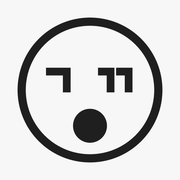
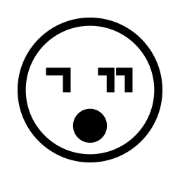
feat: SEO 메타데이터 강화 및 브랜딩 자산 통일 (#122)
* feat: SEO 메타데이터 및 브랜딩 카피 통일

- title/og/twitter 문구를 "가까워 - AI 유사도 기반 게임"으로 통일
- description을 "AI 임베딩 유사도 판별 기반 한국어 데일리 웹 게임"으로 확장
- canonical, keywords 메타 추가
- WebSite, Game+WebApplication JSON-LD 구조화 데이터 추가
- favicon.svg/96px/manifest 링크 선언 (파일은 후속 커밋에서 반영)
- sitemap.xml: xsi:schemaLocation 명시 + lastmod를 W3C ISO 8601 전환
- robots.txt: 검색/소셜 크롤러(Google/Naver/Bing/Twitter/Facebook/Kakao 등) 명시 허용
- README 제목/설명 통일 및 대표 이미지를 OG 이미지로 교체

* chore: 파비콘 세트 교체 및 PWA manifest 반영

realfavicongenerator 생성 파비콘 자산 세트로 교체:
- favicon.ico/svg/96px
- apple-touch-icon.png (180x180)
- web-app-manifest-192px/512px
- site.webmanifest theme_color를 브랜드 색(#FDE047)으로 정정
- og-image.png 1:1.91 비율로 최적화

* chore: GakkaweoIcon 실제 브랜딩 SVG 반영

Figma 디자인 기반 실제 브랜드 SVG로 교체.
currentColor 기반으로 Header/LoginButton 등 부모 요소의
text color에 따라 라이트/다크 모드 자동 대응.

Pull request: feat: SEO 메타데이터 강화 및 브랜딩 자산 통일
## 관련 이슈

Closes #121

## 변경 사항

### SEO 메타데이터 확장 (`feat: SEO 메타데이터 및 브랜딩 카피 통일`)
- `title` / `og:*` / `twitter:*` 문구를 **"가까워 - AI 유사도 기반 게임"**으로 통일 (기존 em dash `—` → ASCII `-`)
- `description`을 **"AI 임베딩 유사도 판별 기반 한국어 데일리 웹 게임. 매일 새로운 정답 문장을 의미 유사도로 맞춰보세요."**로 확장
- `<meta name="keywords">`, `<link rel="canonical">` 추가
- JSON-LD 구조화 데이터 2블록 추가: `WebSite`, `["Game", "WebApplication"]`
- `favicon.svg` / `favicon-96x96.png` / `site.webmanifest` 링크 선언 (파일은 후속 커밋에서 반영)
- `sitemap.xml`: `xsi:schemaLocation` 명시 + `<lastmod>`를 W3C ISO 8601 full form(KST 포함)으로 전환
- `robots.txt`: 검색/소셜 크롤러(Google/Naver/Bing/Yeti/Twitter/Facebook/Kakao/Discord/Slack/Telegram/LinkedIn) 명시 허용
- `README.md` 제목/설명 통일 및 대표 이미지를 OG 이미지로 교체

### 파비콘 세트 교체 (`chore: 파비콘 세트 교체 및 PWA manifest 반영`)
realfavicongenerator 생성 자산으로 일괄 교체:
- `favicon.ico` / `favicon.svg` / `favicon-96x96.png`
- `apple-touch-icon.png` (180×180)
- `web-app-manifest-192x192.png` / `web-app-manifest-512x512.png`
- `site.webmanifest` `theme_color`를 브랜드 색(`#FDE047`)으로 정정
- `og-image.png` 1:1.91 비율로 최적화

### GakkaweoIcon SVG 교체 (`chore: GakkaweoIcon 실제 브랜딩 SVG 반영`)
- Figma 디자인 기반 실제 브랜드 SVG로 교체
- `currentColor` 기반으로 Header/LoginButton 등 부모 요소의 text color에 따라 라이트/다크 모드 자동 대응

## 셀프 리뷰 체크리스트

- [x] 코드가 정상적으로 동작하는지 확인했다
- [x] 불필요한 코드나 주석을 제거했다
- [x] 변경 사항이 다른 기능에 영향을 주지 않는지 확인했다

diff --git a/frontend/index.html b/frontend/index.html
@@ -2,17 +2,31 @@
 <html lang="ko">
   <head>
     <meta charset="UTF-8" />
-    <link rel="icon" href="/favicon.ico" />
+    <link rel="icon" href="/favicon.ico" sizes="any" />
+    <link rel="icon" type="image/svg+xml" href="/favicon.svg" />
+    <link rel="icon" type="image/png" sizes="96x96" href="/favicon-96x96.png" />
     <link rel="apple-touch-icon" sizes="180x180" href="/apple-touch-icon.png" />
+    <link rel="manifest" href="/site.webmanifest" />
+    <link rel="canonical" href="https://gakkaweo.r4b2.xyz/" />
     <meta name="viewport" content="width=device-width, initial-scale=1.0" />
-    <meta name="description" content="매일 정답 문장을 맞추는 AI 유사도 기반 단어 게임" />
+    <meta
+      name="description"
+      content="AI 임베딩 유사도 판별 기반 한국어 데일리 웹 게임. 매일 새로운 정답 문장을 의미 유사도로 맞춰보세요."
+    />
+    <meta
+      name="keywords"
+      content="가까워, 가까워 게임, AI 유사도 게임, 한국어 단어 게임, 의미 유사도, 임베딩 게임, 데일리 게임, 일일 게임, semantle 한국어, 세멘틀, 꼬멘틀, 뉴멘틀, 끄투, sentence similarity game, korean word game"
+    />
     <meta name="theme-color" content="#FDE047" />
 
     <!-- Open Graph -->
     <meta property="og:type" content="website" />
-    <meta property="og:title" content="가까워 — AI 유사도 단어 게임" />
-    <meta property="og:description" content="매일 정답 문장을 맞추는 AI 유사도 기반 단어 게임" />
-    <meta property="og:url" content="https://gakkaweo.r4b2.xyz" />
+    <meta property="og:title" content="가까워 - AI 유사도 기반 게임" />
+    <meta
+      property="og:description"
+      content="AI 임베딩 유사도 판별 기반 한국어 데일리 웹 게임. 매일 새로운 정답 문장을 의미 유사도로 맞춰보세요."
+    />
+    <meta property="og:url" content="https://gakkaweo.r4b2.xyz/" />
     <meta property="og:image" content="https://gakkaweo.r4b2.xyz/og-image.png" />
     <meta property="og:image:width" content="1200" />
     <meta property="og:image:height" content="630" />
@@ -21,11 +35,51 @@
 
     <!-- Twitter Card -->
     <meta name="twitter:card" content="summary_large_image" />
-    <meta name="twitter:title" content="가까워 — AI 유사도 단어 게임" />
-    <meta name="twitter:description" content="매일 정답 문장을 맞추는 AI 유사도 기반 단어 게임" />
+    <meta name="twitter:title" content="가까워 - AI 유사도 기반 게임" />
+    <meta
+      name="twitter:description"
+      content="AI 임베딩 유사도 판별 기반 한국어 데일리 웹 게임. 매일 새로운 정답 문장을 의미 유사도로 맞춰보세요."
+    />
     <meta name="twitter:image" content="https://gakkaweo.r4b2.xyz/og-image.png" />
 
-    <title>가까워 — AI 유사도 단어 게임</title>
+    <title>가까워 - AI 유사도 기반 게임</title>
+
+    <script type="application/ld+json">
+      {
+        "@context": "https://schema.org",
+        "@type": "WebSite",
+        "name": "가까워",
+        "alternateName": "Gakkaweo",
+        "url": "https://gakkaweo.r4b2.xyz/",
+        "description": "AI 임베딩 유사도 판별 기반 한국어 데일리 웹 게임. 매일 새로운 정답 문장을 의미 유사도로 맞춰보세요.",
+        "inLanguage": "ko-KR"
+      }
+    </script>
+    <script type="application/ld+json">
+      {
+        "@context": "https://schema.org",
+        "@type": ["Game", "WebApplication"],
+        "name": "가까워",
+        "alternateName": "Gakkaweo",
+        "url": "https://gakkaweo.r4b2.xyz/",
+        "description": "AI 임베딩 유사도 판별 기반 한국어 데일리 웹 게임. 매일 새로운 정답 문장을 의미 유사도로 맞춰보세요.",
+        "inLanguage": "ko-KR",
+        "genre": "Word Game",
+        "gamePlatform": "Web Browser",
+        "applicationCategory": "GameApplication",
+        "operatingSystem": "Any",
+        "browserRequirements": "Requires JavaScript. Requires HTML5.",
+        "offers": {
+          "@type": "Offer",
+          "price": "0",
+          "priceCurrency": "KRW"
+        },
+        "author": {
+          "@type": "Person",
+          "name": "Park Jun Ho"
+        }
+      }
+    </script>
   </head>
   <body>
     <div id="root"></div>

diff --git a/frontend/src/shared/config/providerIcons.tsx b/frontend/src/shared/config/providerIcons.tsx
@@ -39,15 +39,12 @@ export function NaverIcon({ size = 20 }: { size?: number }) {
 
 export function GakkaweoIcon({ size = 20 }: { size?: number }) {
   return (
-    <svg width={size} height={size} viewBox="0 0 24 24" fill="currentColor" aria-hidden="true">
-      <path
-        fillRule="evenodd"
-        clipRule="evenodd"
-        d="M12 2C6.48 2 2 6.48 2 12s4.48 10 10 10 10-4.48 10-10S17.52 2 12 2zm0 1.8a8.2 8.2 0 110 16.4 8.2 8.2 0 010-16.4z"
-      />
-      <path d="M7 8.5h3v4.5H8.5V10H7z" />
-      <path d="M12.5 8.5h2v4.5h-1V10h-1zm2.5 0h2v4.5h-1V10h-1z" />
-      <circle cx="12" cy="16" r="1.6" />
+    <svg width={size} height={size} viewBox="0 0 1024 1024" fill="none" aria-hidden="true">
+      <circle cx="512" cy="512" r="388.635" stroke="currentColor" strokeWidth="46.7308" />
+      <path d="M401.823 385.231V525.423H357.762V429.291H261.631V385.231H401.823Z" fill="currentColor" />
+      <path d="M651.054 385.231V525.423H606.993V429.291H557.592V385.231H651.054Z" fill="currentColor" />
+      <path d="M753.861 385.231V525.423H709.801V429.291H660.4V385.231H753.861Z" fill="currentColor" />
+      <circle cx="512" cy="715.461" r="96.5769" fill="currentColor" />
     </svg>
   );
 }

diff --git a/README.md b/README.md
@@ -1,10 +1,10 @@
 <div align="center">
 
-<img src="docs/images/logo_text_black.png" alt="가까워 로고" width="256" />
+<img src="docs/images/og-image.png" alt="가까워 로고" />
 
-# 가까워 — AI 유사도 단어 게임
+# 가까워 - AI 유사도 기반 게임
 
-매일 새로운 정답 문장이 출제되고, AI가 측정하는 의미 유사도를 단서로 정답을 추측하는 게임입니다.
+AI 임베딩 유사도 판별 기반 데일리 웹 게임입니다. 세멘틀(Semantle), 꼬멘틀, 뉴멘틀, 끄투 등 단어/문장 유추 장르에서 영감을 받아 한국어 문장 의미 유사도에 특화된 일일 챌린지를 제공합니다.
 
 **문장의 의미**를 비교하기 때문에, 같은 뜻의 다른 표현으로도 높은 점수를 받을 수 있습니다.
 